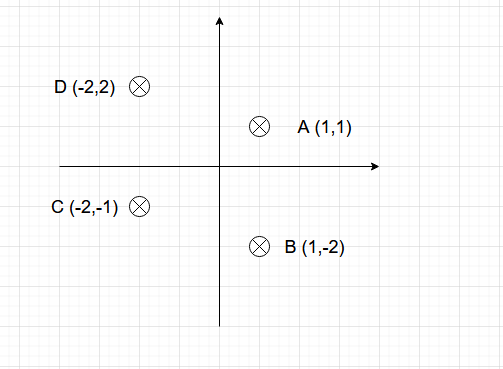
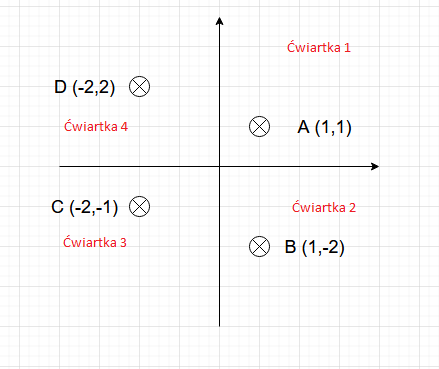
Dodano zadanie 14

diff --git a/CsharpForTesters/01-Wstep/README.md b/CsharpForTesters/01-Wstep/README.md
@@ -135,8 +135,9 @@ Metoda ma zwrócić true (kwota się zgadza) lub false (kwota się nie zgadza)
 public static bool validateSumWithDiscount(int pcs, double price, double discount, double expectedSum)
 ```
 
-Zadanie 14
+#### Zadanie 14
 
-Metoda ma przyjąć dwa parametry, współrzędne x oraz y punktu na osi współrzędnych
+Metoda `GetQuadrant()` ma przyjąć dwa parametry, współrzędne `x` oraz `y` punktu na osi współrzędnych.
+Ma zwrócić (użyj funkcji `switch`) numer ćwiartki na układzie współrzędnych.
 
 ![Wyjasnienie zadania 14](../img/zad14.png)
